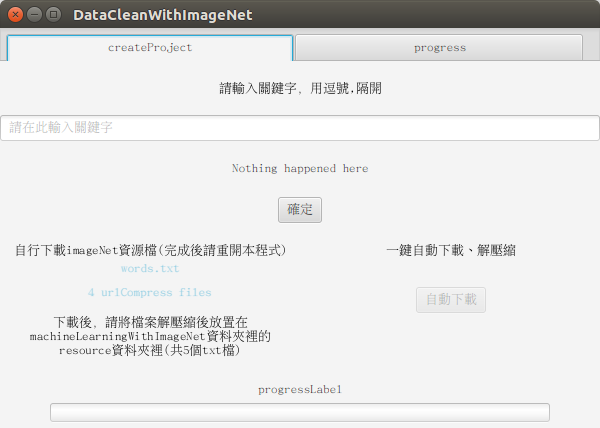
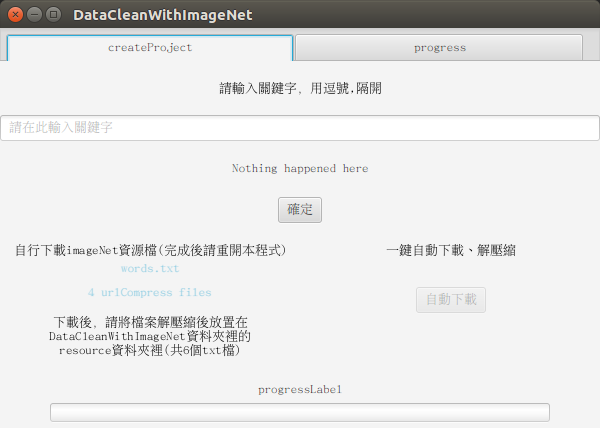
Fix download bug and update descripting images

Changed region(s): [[0.06, 0.7593, 0.45, 0.8201], [0.99, 0.0, 1.0, 0.0304]]

diff --git a/src/sample/ImageDownloadForeman.java b/src/sample/ImageDownloadForeman.java
@@ -13,13 +13,16 @@ import java.util.Queue;
 
 public class ImageDownloadForeman extends Task<Void> {
 
-    private final Queue<String> urlQueue;
+    private final Queue<String> url0Queue;
+    private final Queue<String> url1Queue;
+    private final ArrayList<Queue<String>> urlQueues;
     private final Queue<String> massageQueue;
 
     private ThisResource resource;
 
     private final int MAX_URLS_IN_QUEUE = 100;
     private final int MAX_CURRENT_THREADS = 32;
+    private final int CLASSIFICATION = 2;
     private long countRealDownloads = 0;
     private long countLines = 0;
     private long totalLines;
@@ -27,7 +30,12 @@ public class ImageDownloadForeman extends Task<Void> {
 
     public ImageDownloadForeman(ThisResource resource) {
 
-        this.urlQueue = new ArrayDeque<>();
+        this.url0Queue = new ArrayDeque<>();
+        this.url1Queue = new ArrayDeque<>();
+        this.urlQueues = new ArrayList<>();
+        this.urlQueues.add(url0Queue);
+        this.urlQueues.add(url1Queue);
+
         this.massageQueue = new ArrayDeque<>();
 
         this.resource = resource;
@@ -59,7 +67,7 @@ public class ImageDownloadForeman extends Task<Void> {
 
         Path imageSubDirPath;
 
-        for(int whichIndex=0; whichIndex<2; whichIndex++){
+        for(int whichIndex=0; whichIndex<CLASSIFICATION; whichIndex++){
 
             imageSubDirPath = resource.getImageSubDirPath(whichIndex);
             if(!Files.exists(imageSubDirPath))
@@ -69,12 +77,14 @@ public class ImageDownloadForeman extends Task<Void> {
 
             readAndPush(whichIndex);
 
-            downloadThreadJoin();
+            downloadThreadJoin(whichIndex);
 
             if(isCancelled()){
                 break;
             }
         }
+
+        while(!updateUIMassage());
 
         return null;
     }
@@ -96,12 +106,8 @@ public class ImageDownloadForeman extends Task<Void> {
             String input;
             while((input = urlFile.readLine()) != null){
 
-                if(urlQueue.size() < MAX_URLS_IN_QUEUE) {
-                    urlQueue.add(input);
-
-                    updateUIMassage();
-
-                } else {
+                urlQueues.get(whichIndex).add(input);
+                if(!(urlQueues.get(whichIndex).size() < MAX_URLS_IN_QUEUE)) {
 //                    建立下載執行緒
                     createImageDownloader(whichIndex);
 
@@ -112,6 +118,9 @@ public class ImageDownloadForeman extends Task<Void> {
 
                     }
                 }
+
+                updateUIMassage();
+
                 if(isCancelled()){
                     updateMessage("Wait sub-threads to shutdown.");
                     break;
@@ -127,7 +136,7 @@ public class ImageDownloadForeman extends Task<Void> {
      * Update progressBar and label messages.
      *
      */
-    private void updateUIMassage() {
+    private boolean updateUIMassage() {
 
         if(!massageQueue.isEmpty()){
             String massage = massageQueue.poll();
@@ -137,6 +146,12 @@ public class ImageDownloadForeman extends Task<Void> {
             } else {
                 updateProgress(this.countLines++, this.totalLines);
             }
+        }
+
+        if(this.countLines == this.totalLines){
+            return true;
+        } else {
+            return false;
         }
 
     }
@@ -151,7 +166,7 @@ public class ImageDownloadForeman extends Task<Void> {
         if(Thread.activeCount() < MAX_CURRENT_THREADS) {
 
 
-            new Thread(new ImageDownloader(urlQueue,
+            new Thread(new ImageDownloader(urlQueues.get(whichIndex),
                     massageQueue,
                     resource.getImageSubDirPath(whichIndex))
             ).start();
@@ -162,15 +177,15 @@ public class ImageDownloadForeman extends Task<Void> {
     /**
      * Waiting the short-term goal(download images) to be done.
      *
+     * @param whichIndex choose sub-directory where the downloading image to located.
      */
-    private void downloadThreadJoin() {
+    private void downloadThreadJoin(int whichIndex) {
 
-        while(Thread.activeCount() > beforeCreateDownloadThreadCount){
-            try{
-                Thread.sleep(100);
-            } catch (InterruptedException e) {
-                e.printStackTrace();
-            }
+        while((!urlQueues.get(whichIndex).isEmpty()) || (Thread.activeCount() > beforeCreateDownloadThreadCount)){
+
+            if(!urlQueues.get(whichIndex).isEmpty())
+                createImageDownloader(whichIndex);
+
             if(isCancelled()){
                 break;
             }
@@ -187,7 +202,7 @@ public class ImageDownloadForeman extends Task<Void> {
 
         long totalLines = 0;
 
-        for(int i=0; i<2; i++){
+        for(int i=0; i<CLASSIFICATION; i++){
             Path urlFilePath = resource.getUrlSubFilePath(i);
 
             try {

diff --git a/src/sample/Controller.java b/src/sample/Controller.java
@@ -4,6 +4,7 @@ package sample;
 import javafx.event.ActionEvent;
 import javafx.fxml.FXML;
 import javafx.scene.control.*;
+import javafx.scene.text.Text;
 import javafx.stage.DirectoryChooser;
 import javafx.stage.Stage;
 
@@ -36,6 +37,9 @@ public class Controller {
 
     @FXML
     private Label stepOneLabel, directoryLabel, progressBarLabel;
+
+    @FXML
+    private Text selfDownloadtext2, selfDownloadtext3, selfDownloadtext4;
 
     @FXML
     private Button openDirectoryButton;
@@ -80,6 +84,10 @@ public class Controller {
                     }
                 }
             }
+
+            selfDownloadtext2.setText("下載後，請將檔案解壓縮後放置在");
+            selfDownloadtext3.setText(resource.getMainDirPath().toString() + "資料夾裡的");
+            selfDownloadtext4.setText("resource資料夾裡(共6個txt檔)");
 
 //            有資源wnid.txt 就開啟stepOne 的功能
             if(Files.exists(resource.getResourceWordsTextPath()))

diff --git a/src/sample/WalkingFileTree.java b/src/sample/WalkingFileTree.java
@@ -65,6 +65,8 @@ public class WalkingFileTree extends SimpleFileVisitor<Path> {
         if(!type.split("/")[1].equals("jpeg")){
             if(!image2jpeg(file, out)) {
                 try {
+                    shareQueue.add("delete");
+                    shareQueue.add("total");
                     Files.deleteIfExists(out);
                     Files.deleteIfExists(file);
                 } catch (IOException e) {
@@ -127,6 +129,9 @@ public class WalkingFileTree extends SimpleFileVisitor<Path> {
             BufferedImage image = ImageIO.read(iis);
             try (OutputStream os = new FileOutputStream(out.toFile())) {
                 ImageOutputStream ios = ImageIO.createImageOutputStream(os);
+                if(image == null) {// need close???????
+                    return false;
+                }
                 ImageIO.write(image, "jpg", ios);
             } catch (Exception exp) {
                 exp.printStackTrace();

diff --git a/src/sample/WnidMatcher.java b/src/sample/WnidMatcher.java
@@ -176,7 +176,8 @@ public class WnidMatcher extends Task<Void> {
         try(BufferedWriter urlFile = new BufferedWriter(
                 new FileWriter(whichUrlPath.toString(), true))) {
             for(String s: urlList) {
-                urlFile.write(s + "\n");
+                urlFile.write(s);
+                urlFile.newLine();
             }
 
         } catch (IOException e) {

diff --git a/README.md b/README.md
@@ -15,7 +15,7 @@
   - 頁面三：利用上一步下載連結，用多執行緒下載圖檔
 ![圖一](img/javaDemo_stepThreeRun.png)
   - 頁面四：利用上一步下載的圖檔，進行清理作業（clean data）
-![圖一](img/javademo_stepFourRun.png)
+![圖一](img/javaDemo_stepFourRun.png)
   - 頁面五：利用上一步的clean data，進行資料包裝、單一化以便後續處理
 ![圖一](img/javaDemo_stepFiveRun.png)
 
